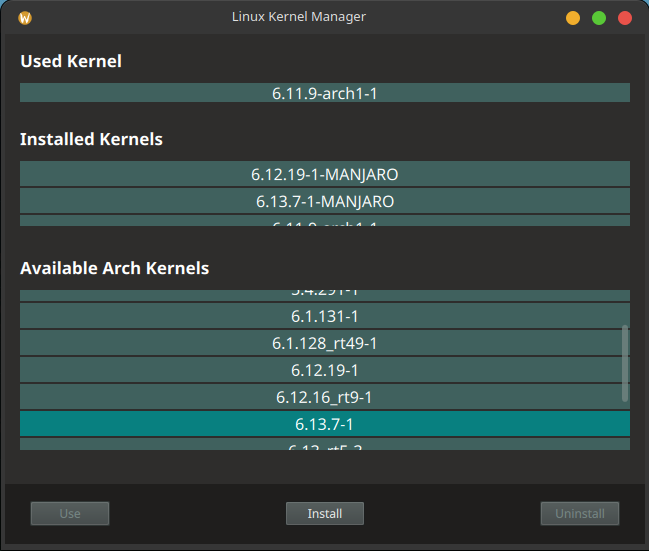
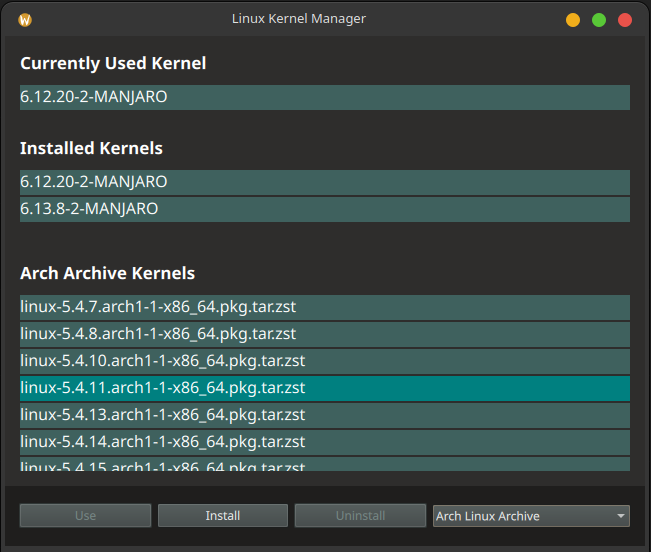
added uninstall function for arch & manjaro

diff --git a/ui/Controls.qml b/ui/Controls.qml
@@ -17,6 +17,10 @@ Item {
 
         anchors.verticalCenter: parent.verticalCenter
 
+        Item {
+            implicitWidth: 9
+        }
+
         Button {
             id: btnUse
 
@@ -42,6 +46,7 @@ Item {
 
             onClicked: {
                 manager.installKernel(manager.selectedKernel)
+                //manager.installKernel
             }
         }
 
@@ -56,6 +61,10 @@ Item {
 
             text: "Uninstall"
             enabled: root.globalUninstallBtn === true ? true : false
+
+            onClicked: {
+                manager.uninstallKernel(manager.selectedKernel)
+            }
         }
 
         // Item {
@@ -84,6 +93,10 @@ Item {
                     version: "Supported Manjaro Kernels"
                 }
             }
+        }
+
+        Item {
+            implicitWidth: 9
         }
     }
 }

diff --git a/Main.qml b/Main.qml
@@ -38,6 +38,7 @@ Window {
     property string selectedList: ""
     property int currentIndex: -1
 
+    // enable/disable buttons
     property bool globalInstallBtn: false
     property bool globalUninstallBtn: false
 

diff --git a/kernelmanager.cpp b/kernelmanager.cpp
@@ -75,6 +75,8 @@ void KernelManager::setSelectedKernel(const QString &newSelectedKernel)
 // install kernel from Arch Linux Archive
 QString KernelManager::installKernel(QString kernel)
 {
+    //QString kernel = m_selectedKernel;
+
     // 1. create URL and download kernel
     QString url = "https://archive.archlinux.org/packages/l/linux/" + m_selectedKernel;
     QString filePath = "/tmp/" + m_selectedKernel;
@@ -125,4 +127,38 @@ QString KernelManager::installKernel(QString kernel)
     }
 
     return "Kernel " + kernel + " was successfull installed";
+}
+
+QString KernelManager::uninstallKernel(QString kernel)
+{
+    //QString kernel = m_selectedKernel;
+    QString bashCommand;
+    QProcess uninstallProcess;
+
+    // check if arch or manjaro kernel
+    if (m_selectedKernel.contains("arch")) {
+        bashCommand = "pkexec pacman -Rns --noconfirm linux && pkexec update-grub"; // uninstall kernel and update grub boot loader
+    }
+    else if (m_selectedKernel.contains("manjaro")) {
+
+        // format kernel name
+        QString kernelName = m_selectedKernel.remove("-MANJARO");
+        bashCommand = "pkexec bash -c 'yes | mhwd-kernel -r " + kernelName + "'";
+    }
+
+    uninstallProcess.start("/bin/bash", QStringList() << "-c" << bashCommand);
+    uninstallProcess.waitForFinished(-1);
+
+    // log terminal output
+    QString uninstallOutput = uninstallProcess.readAllStandardOutput();
+    QString uninstallError = uninstallProcess.readAllStandardError();
+
+    qDebug() << "Output: " << uninstallOutput;
+    qDebug() << "Error: " << uninstallError;
+
+    if (uninstallProcess.exitCode()!= 0) {
+        return "Error while uninstalling kernel: " + uninstallError;
+    }
+
+    return "Kernel " + kernel + " was successfull uninstalled";
 }

diff --git a/kernelmanager.h b/kernelmanager.h
@@ -23,6 +23,7 @@ public:
     Q_INVOKABLE QStringList listArchArchiveKernels();
     //Q_INVOKABLE QStringList listManjaroKernels();
     Q_INVOKABLE QString installKernel(QString kernel);
+    Q_INVOKABLE QString uninstallKernel(QString kernel);
 
 
     QString selectedKernel() const;
